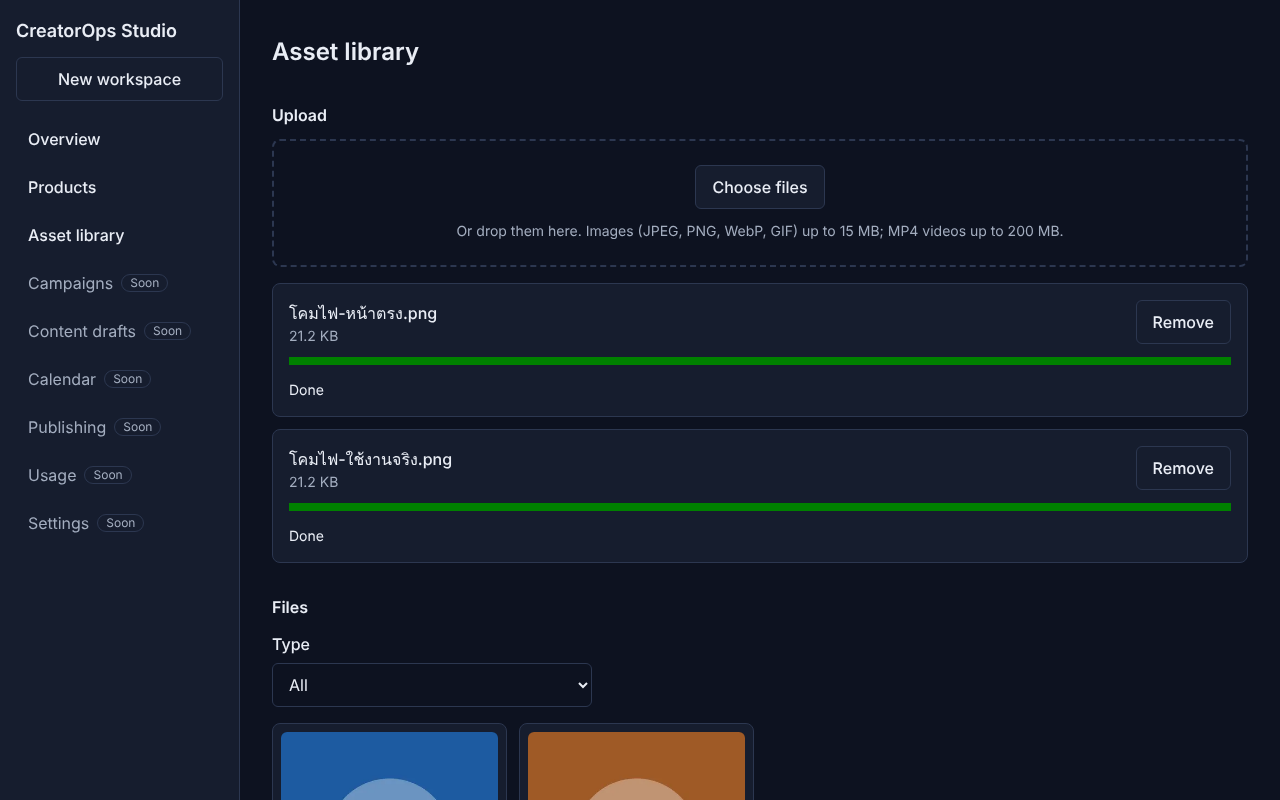
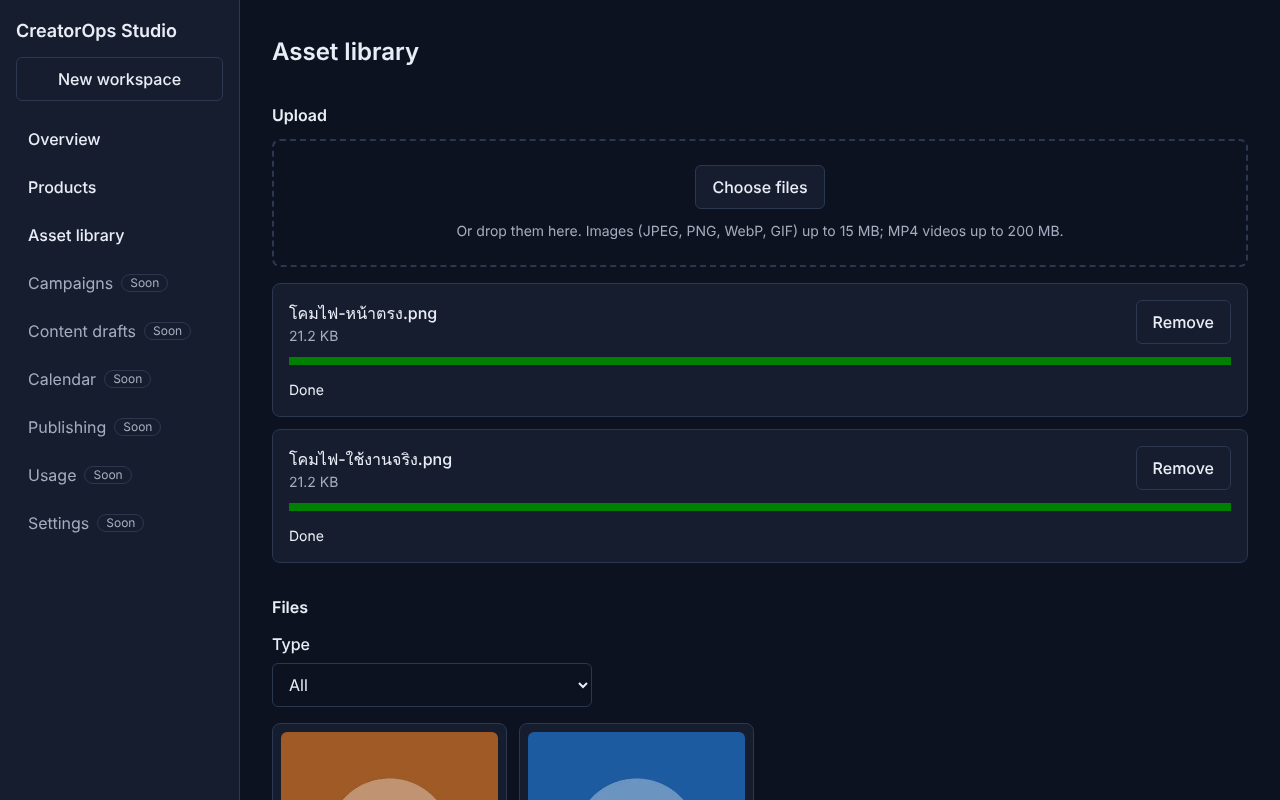
chore: S3.0 Phase 2 cleanups (extension CSP, read-only member tests, asset gate, docs, CI format check)
Claude-Session: https://claude.ai/code/session_01PYPXRzYYAPY6pwzRvNFqxp

Changed region(s): [[0.2188, 0.9062, 0.5938, 1.0]]

diff --git a/apps/api/src/authorization.test.ts b/apps/api/src/authorization.test.ts
@@ -6,7 +6,11 @@ import { schema } from './db/client.js';
 import { createAuthGuard } from './modules/identity/guard.js';
 import { loadConfig } from './platform/config.js';
 import { createLogger } from './platform/logger.js';
-import { runAuthorizationHarness, type HarnessFixtures } from './test/authorization-harness.js';
+import {
+  runAuthorizationHarness,
+  runReadOnlyMemberHarness,
+  type HarnessFixtures,
+} from './test/authorization-harness.js';
 import { requireDatabaseUrl, validEnv } from './test/db-url.js';
 import { createPerson, type Person } from './test/people.js';
 import { createTestDb, type TestDb } from './test/test-db.js';
@@ -63,6 +67,41 @@ beforeAll(async () => {
 
 afterAll(async () => {
   await testDb.drop();
+});
+
+describe('read-only members over every write route', () => {
+  it.each(['viewer', 'reviewer'])(
+    'a %s gets 403 on every write route, and nothing changes',
+    async (role) => {
+      const member = await createPerson(testDb.db, config.SESSION_SECRET, `member-${role}`);
+      await testDb.pool.query(
+        `insert into workspace_members (workspace_id, user_id, role) values ($1, $2, $3)`,
+        [victim.workspaceId, member.userId, role],
+      );
+      const app = await buildApp({ config, logger: silent, db: testDb.db, storage: testStorage() });
+      const report = await runReadOnlyMemberHarness(app, member.token, {
+        ownParams: fixtures.foreignParams,
+        bodies: fixtures.bodies,
+      });
+      expect(report.failures).toEqual([]);
+      expect(report.checked).toEqual(
+        expect.arrayContaining([
+          'POST /api/v1/workspaces/:workspaceId/products',
+          'PATCH /api/v1/workspaces/:workspaceId/products/:productId',
+          'POST /api/v1/workspaces/:workspaceId/assets/upload-intent',
+        ]),
+      );
+      expect(report.checked.length).toBeGreaterThanOrEqual(6);
+      // The viewer can still read.
+      const read = await app.inject({
+        method: 'GET',
+        url: `/api/v1/workspaces/${victim.workspaceId}/products`,
+        headers: { authorization: `Bearer ${member.token}` },
+      });
+      expect(read.statusCode).toBe(200);
+      await app.close();
+    },
+  );
 });
 
 describe('authorization harness over every registered route', () => {

diff --git a/apps/api/src/test/authorization-harness.ts b/apps/api/src/test/authorization-harness.ts
@@ -100,3 +100,48 @@ export async function runAuthorizationHarness(
   }
   return { checked, failures };
 }
+
+/**
+ * Role check (D-025 follow-up): a read-only member (viewer or reviewer) of a workspace must get
+ * 403 on every route that changes data inside that workspace. The sample ids belong to the
+ * workspace the caller IS a member of, so a 404 would mean the route never reached its permission
+ * check, and a 2xx or 4xx other than 403 means the route lets a read-only member through.
+ * Routes with no workspace path parameter (such as creating a workspace) are not in scope.
+ */
+export async function runReadOnlyMemberHarness(
+  app: FastifyInstance,
+  readOnlyToken: string,
+  fixtures: Pick<HarnessFixtures, 'bodies'> & {
+    /** Path parameter values for the workspace the caller is a read-only member of. */
+    readonly ownParams: Readonly<Record<string, string>>;
+  },
+): Promise<HarnessReport> {
+  const checked: string[] = [];
+  const failures: string[] = [];
+
+  for (const route of app.registeredRoutes) {
+    if (route.isPublic) continue;
+    if (route.method === 'GET' || route.method === 'HEAD' || route.method === 'OPTIONS') continue;
+    const names = paramNames(route.url);
+    if (!names.includes('workspaceId')) continue;
+    const key = `${route.method} ${route.url}`;
+    checked.push(key);
+
+    const url = fill(route.url, fixtures.ownParams);
+    if (url === null) {
+      failures.push(`${key}: no fixture for parameters ${names.join(', ')}`);
+      continue;
+    }
+    const method = route.method as 'POST' | 'PATCH' | 'PUT' | 'DELETE';
+    const response = await app.inject({
+      method,
+      url,
+      headers: { authorization: `Bearer ${readOnlyToken}` },
+      ...(method === 'DELETE' ? {} : { payload: fixtures.bodies?.[key] ?? {} }),
+    });
+    if (response.statusCode !== 403) {
+      failures.push(`${key}: expected 403 for a read-only member, got ${response.statusCode}`);
+    }
+  }
+  return { checked, failures };
+}

diff --git a/apps/extension/src/manifest.ts b/apps/extension/src/manifest.ts
@@ -70,8 +70,9 @@ export function buildManifest(input: ManifestInput): Manifest {
     permissions: [...EXTENSION_PERMISSIONS],
     host_permissions: [`${origin}/*`],
     content_security_policy: {
-      // No remote code, no plugins, and the panel may only talk to itself and the API origin.
-      extension_pages: `script-src 'self'; object-src 'none'; base-uri 'none'; connect-src 'self' ${origin}`,
+      // No remote code, no plugins, and everything not listed falls back to the extension itself.
+      // Images and media may also load from the API origin (signed media URLs, D-039).
+      extension_pages: `default-src 'self'; script-src 'self'; object-src 'none'; base-uri 'none'; form-action 'none'; img-src 'self' ${origin}; media-src ${origin}; connect-src 'self' ${origin}`,
     },
     ...(input.key ? { key: input.key } : {}),
   };

diff --git a/apps/extension/src/manifest.test.ts b/apps/extension/src/manifest.test.ts
@@ -50,6 +50,12 @@ describe('buildManifest', () => {
     expect(csp).toContain("object-src 'none'");
     expect(csp).toContain("base-uri 'none'");
     expect(csp).toContain("connect-src 'self' http://localhost:3000");
+    // Everything not listed falls back to the extension itself, so no other origin can load
+    // styles, fonts, frames or form targets.
+    expect(csp).toContain("default-src 'self'");
+    expect(csp).toContain("form-action 'none'");
+    expect(csp).toContain("img-src 'self' http://localhost:3000");
+    expect(csp).toContain('media-src http://localhost:3000');
     expect(csp).not.toMatch(/unsafe-eval|unsafe-inline|\*|https?:\/\/[^ ]*\*/);
   });
 

diff --git a/apps/web/src/app/routes.tsx b/apps/web/src/app/routes.tsx
@@ -21,7 +21,9 @@ export const routes: RouteObject[] = [
         path: 'w/:workspaceId/assets',
         element: (
           <SessionGate>
-            <AssetLibraryPage />
+            <WorkspaceRequired>
+              <AssetLibraryPage />
+            </WorkspaceRequired>
           </SessionGate>
         ),
       },

diff --git a/docs/IMPLEMENTATION_STATUS.md b/docs/IMPLEMENTATION_STATUS.md
@@ -24,7 +24,7 @@ Phase 0 and Phase 1 complete (S1.1–S1.5 done and verified; see the unverified 
 - [ ] Export workflow (Phase 5)
 
 ## Current branch / commit
-Branch `ccr-14958772-bzlatd`. S0.2 committed on top of S0.1 and the documentation commits.
+Branch `ccr-14958772-bzlatd`. Phases 0 to 2 and S3.0 are committed; see `git log` for the current commit.
 
 ## How to run
 Node 22+, pnpm 10.28.0.
@@ -65,7 +65,7 @@ Exit criteria from docs/06: create a product in the dashboard and see it in the 
 
 | docs/07 item | Evidence | Status |
 |---|---|---|
-| Create a workspace | `POST /workspaces` API tests (limit under concurrency, audit) | Done in the API. **No UI yet**: the dashboard only switches between existing workspaces |
+| Create a workspace | `POST /workspaces` API tests (limit under concurrency, audit) | Done in the API and the dashboard (`/workspaces/new`, added after the exit check) |
 | Create, edit, archive, view a product | API tests; dashboard E2E | Done |
 | Required fields validated with clear messages | contracts, API and E2E tests | Done |
 | Cannot reach another workspace's products by changing an id | IDOR tests (both URL shapes, cursors, bodies), harness over every route | Done |
@@ -78,7 +78,7 @@ Exit criteria from docs/06: create a product in the dashboard and see it in the 
 | Side panel opens through the extension action | `setPanelBehavior` checked via `getPanelBehavior()`; panel page loaded as a tab | **Not verified with a real toolbar click** |
 | Extension has loading, empty, error states; survives service-worker suspension | extension E2E | Done |
 | Current-page import is user-triggered and narrow | not implemented (a later slice, own decision, D-019) | Deferred |
-| Extension shows product images | not implemented: needs `img-src` in the manifest CSP (D-039) | Deferred |
+| Extension shows product images | not implemented in the UI; the manifest CSP already allows images and media from the API origin (S3.0) | Deferred |
 | Provider secrets server-side; all routes enforce workspace authorization; no prohibited features; publishing disabled | bundle scan; route policy and harness; no such code exists | Done |
 
 Workspace-creation screen added after the exit check (route `/workspaces/new`, "New workspace" link, zero-workspace prompt on Overview and product pages; web unit 124, e2e 28 on a fresh DB; verified by the orchestrator). Known gaps carried forward: the asset library is not gated for a zero-workspace user; the zero-workspace state has unit tests only (no e2e); visual and screen-reader checks beyond axe; real toolbar-click check in Chrome; progress bars in a real browser.
@@ -111,3 +111,9 @@ Not verified locally: the GitHub Actions workflow (including the `postgres:16` s
 
 ## Next smallest task
 Phase 3, slice 1. Before starting, have the advisor break Phase 3 down (content templates, the mock text provider, the job table and worker, Redis and BullMQ per D-006, idempotency, regenerate-one-section) and record the decisions.
+
+## S3.0 Phase 2 cleanups (2026-11-04)
+- Extension manifest CSP now has `default-src 'self'`, `form-action 'none'`, `img-src 'self' <api>`, `media-src <api>` (manifest test added; side panel e2e and screenshot confirm styling intact).
+- Authorization harness gained a read-only-member pass: viewer and reviewer get 403 on every write route that takes a workspace id, and can still read. Mutation check: removing `assertCanWrite` from asset delete made the pass fail with "got 200"; restored.
+- Asset library is gated by the zero-workspace prompt; `.env.example` lists every config variable; CI runs `format:check`; doc 04 routes corrected.
+- Verified by the orchestrator: lint, typecheck, build, format, unit (api 240, web 124, extension 48, ui 43, contracts 27, config 12, provider-core 1) and both e2e suites (14 and 28) on a fresh database.

diff --git a/docs/DECISIONS.md b/docs/DECISIONS.md
@@ -326,7 +326,7 @@ Every slice follows the order in `CLAUDE.md`: contract, backend and tests, UI, s
 - **D-054 Redis.** `scripts/redis-local.sh` (redis-server 7.0.15 present): bind 127.0.0.1, protected mode, generated password, `--appendonly yes`, `--maxmemory-policy noeviction`, non-root like pg-local. `REDIS_URL` config; password redacted. API tests use a fake `JobQueue`; worker tests call `processJob` and `reconcile` directly; one BullMQ smoke suite needs `REDIS_URL` (`SKIP_REDIS_TESTS=1` to skip); CI gets a `redis:7` service.
 **Data model (all with `unique(workspace_id,id)` and composite FKs, D-037):** `campaigns`, `content_drafts`, `jobs` (adds `created_by`, `request_hash`, `attempts`, `max_attempts`, `run_after`, `locked_until`, `cancel_requested_at`).
 **Slices:** S3.0 Phase 2 cleanups (Haiku); S3.1 contracts, provider, templates, claim guard (Haiku); S3.2 migration (orchestrator); S3.3 campaign CRUD (Haiku); S3.4 job repo, idempotency, queue, endpoints (orchestrator); S3.5 worker, retry, lease, reconciler, BullMQ, redis script (orchestrator); S3.6 drafts and regenerate (orchestrator + Haiku); S3.7 dashboard (Haiku); S3.8 extension (Haiku); S3.9 exit check (orchestrator).
-**Phase 2 follow-ups from the same review (fix in S3.0):** extension CSP has no `default-src` (set `default-src 'self'; img-src 'self' <api>; media-src <api>` with a manifest test; D-039 wording that images are blocked is wrong); `.env.example` missing `DATA_DIR`, `TRUST_PROXY_HOPS`, `ALLOW_MOCK_AUTH_ON_NETWORK`, `LOG_LEVEL`, `NODE_ENV`; doc 04 asset routes and doc 07 checkboxes stale; add `format:check` to CI; harness lacks a viewer-403 pass on every write route; gate the asset library for zero workspaces.
+**Phase 2 follow-ups from the same review (S3.0 DONE except the second item of the doc list: doc 07 is the MVP acceptance list, so its boxes stay unticked until the MVP is verified):** extension CSP has no `default-src` (set `default-src 'self'; img-src 'self' <api>; media-src <api>` with a manifest test; D-039 wording that images are blocked is wrong); `.env.example` missing `DATA_DIR`, `TRUST_PROXY_HOPS`, `ALLOW_MOCK_AUTH_ON_NETWORK`, `LOG_LEVEL`, `NODE_ENV`; doc 04 asset routes and doc 07 checkboxes stale; add `format:check` to CI; harness lacks a viewer-403 pass on every write route; gate the asset library for zero workspaces.
 **Accepted for now:** signed URLs do not re-check membership (record before Phase 8 member removal); per-user disk is effectively 40 GiB (20 workspaces x 2 GiB); possible orphan thumbnail on refused completion; `POST /workspaces` not idempotent.
 
 ## Open questions

diff --git a/docs/WORKING_NOTES.md b/docs/WORKING_NOTES.md
@@ -51,7 +51,7 @@ pnpm e2e                                      # builds, then both suites, each o
 
 - Real toolbar click in Chrome; GitHub Actions has never run (including the e2e job and gitleaks).
 - Visual layout and real screen readers (only automated axe checks).
-- Extension does not show product images (needs `img-src` in the manifest CSP, D-039); current-page import deferred (D-019).
+- Extension does not show product images yet (the CSP already allows them since S3.0); current-page import deferred (D-019).
 - Pin GitHub Actions to commit SHAs before the first release.
 
 ## Open questions that need the owner
@@ -60,5 +60,5 @@ Q-001 text provider, Q-002 image/video provider and spending cap, Q-005 Thai eva
 
 ## Next steps
 
-1. Workspace-creation screen: done and verified. Minor leftover: gate the asset library for a zero-workspace user.
-2. Phase 3 plan is recorded as D-045 to D-054 (advisor reviewed). Start with S3.0 (Phase 2 cleanups), then S3.1 and onward in order.
+1. Workspace-creation screen: done and verified. Asset library now gated.
+2. Phase 3 plan is recorded as D-045 to D-054 (advisor reviewed). S3.0 (Phase 2 cleanups) is done; next is S3.1 (contracts, TextProvider and mock, templates, claim guard), then S3.2 onward in order.

diff --git a/docs/04_DATA_MODEL_AND_API.md b/docs/04_DATA_MODEL_AND_API.md
@@ -157,16 +157,18 @@ This is a logical MVP contract. Final field types and naming should be aligned w
 ### Products
 - `GET /workspaces/:workspaceId/products`
 - `POST /workspaces/:workspaceId/products`
-- `GET /products/:productId`
-- `PATCH /products/:productId`
-- `DELETE /products/:productId` (soft delete/archive preferred)
+- `GET /workspaces/:workspaceId/products/:productId`
+- `PATCH /workspaces/:workspaceId/products/:productId`
+- `POST /workspaces/:workspaceId/products/:productId/archive` and `/unarchive` (archive instead of delete; D-042)
 
 ### Assets
 - `POST /workspaces/:workspaceId/assets/upload-intent`
 - `POST /workspaces/:workspaceId/assets/complete-upload`
 - `GET /workspaces/:workspaceId/assets`
-- `GET /assets/:assetId`
-- `DELETE /assets/:assetId`
+- `GET /workspaces/:workspaceId/assets/:assetId`
+- `DELETE /workspaces/:workspaceId/assets/:assetId`
+
+(Asset and product routes are nested under the workspace; see D-042. Media bytes are read through signed `GET /media/:assetId/:variant` URLs, D-039.)
 
 ### Content
 - `POST /workspaces/:workspaceId/campaigns`
